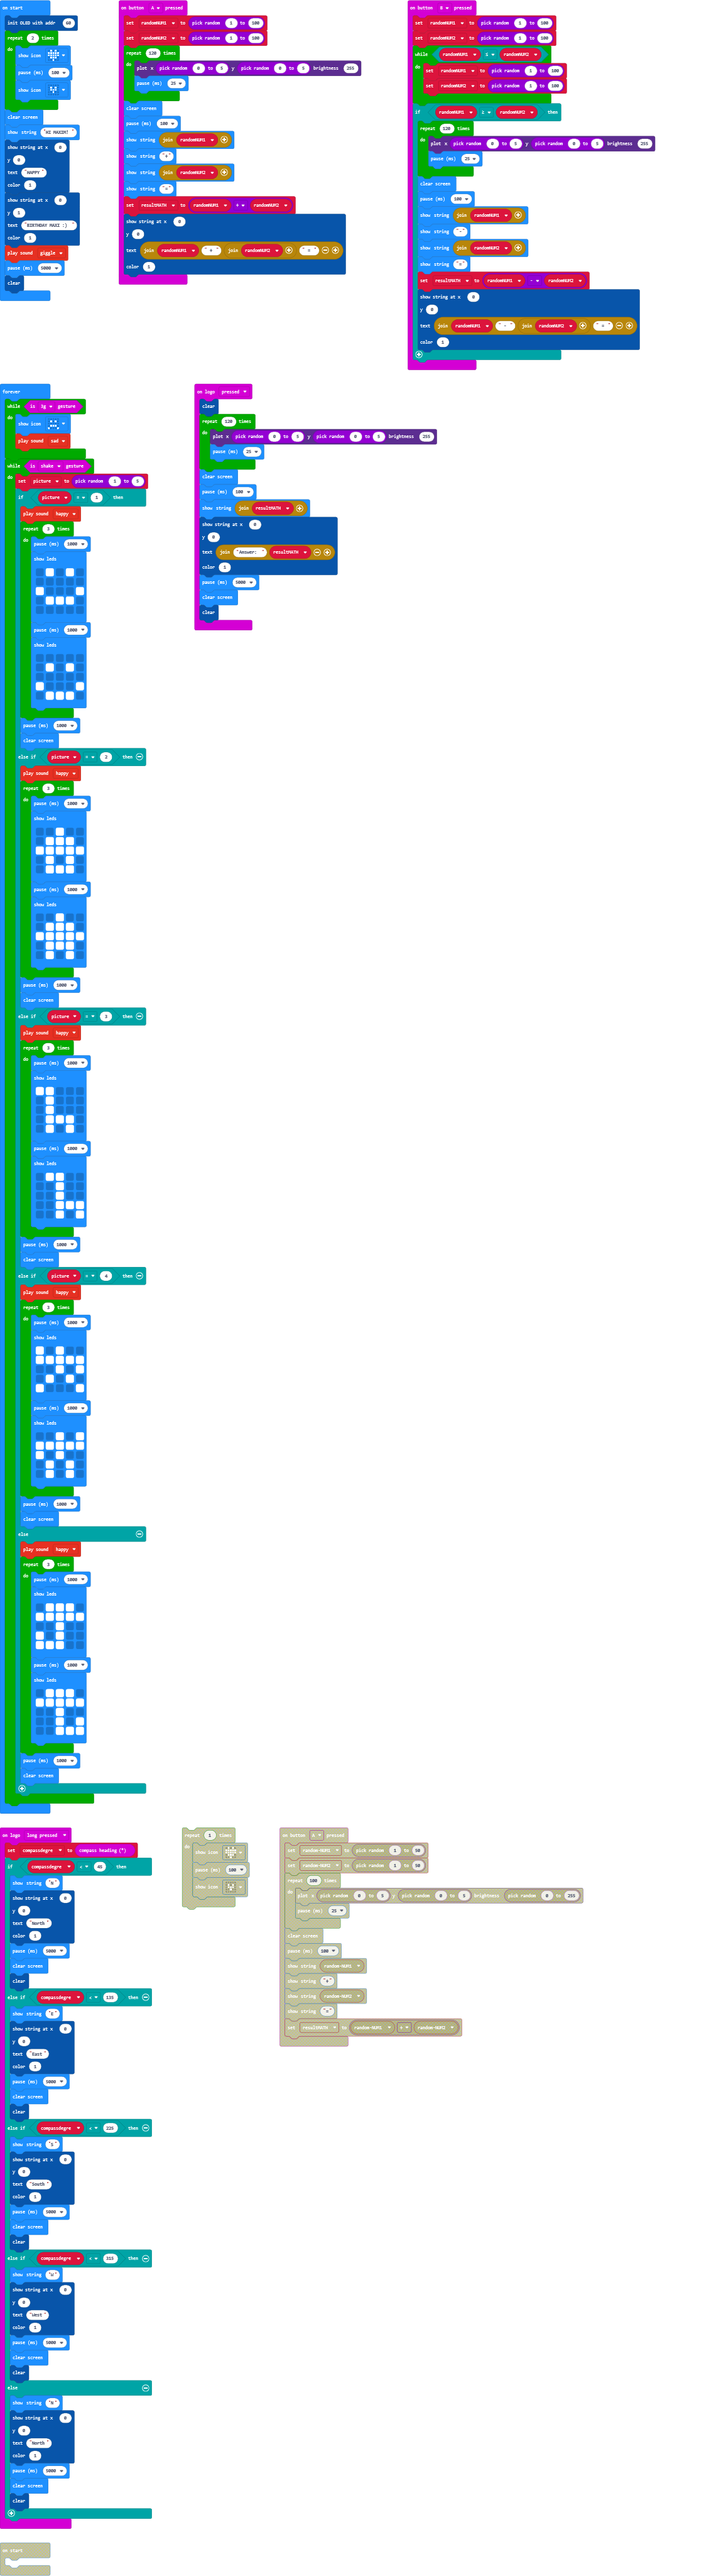
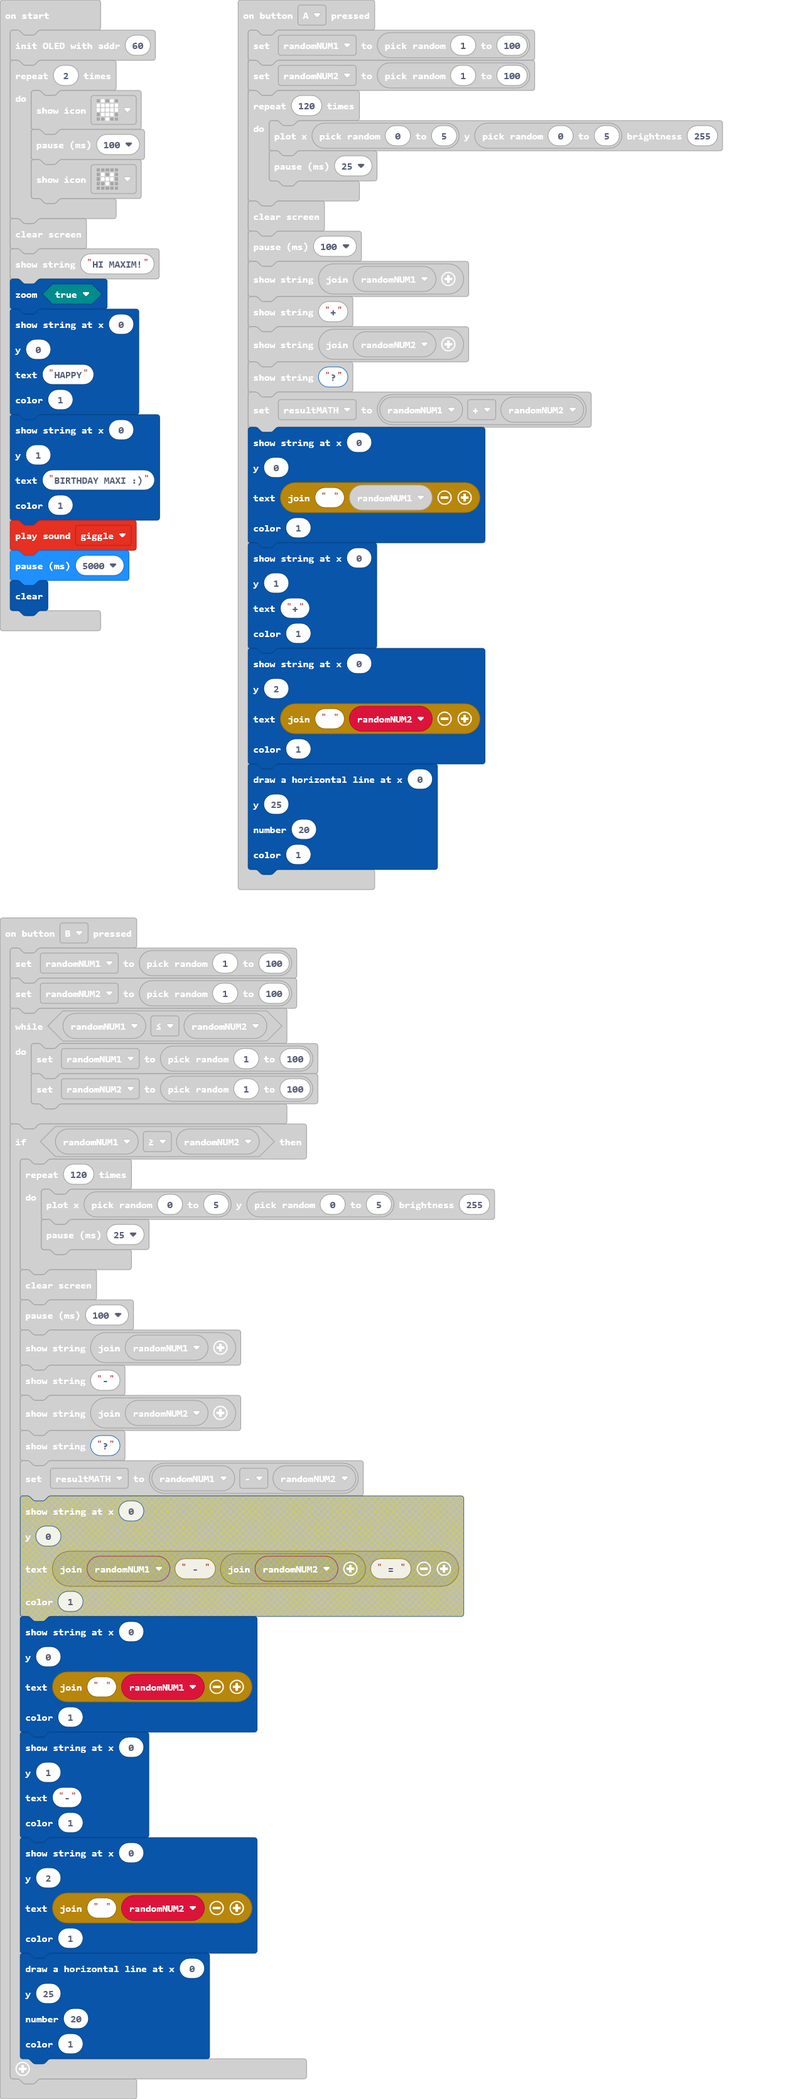
Update main.blocks, main.ts

diff --git a/main.ts b/main.ts
@@ -69,12 +69,30 @@ input.onButtonPressed(Button.A, function () {
     basic.showString("" + randomNUM1)
     basic.showString("+")
     basic.showString("" + randomNUM2)
-    basic.showString("=")
+    basic.showString("?")
     resultMATH = randomNUM1 + randomNUM2
     OLED12864_I2C.showString(
     0,
     0,
-    "" + randomNUM1 + " + " + ("" + randomNUM2) + " = ",
+    " " + randomNUM1,
+    1
+    )
+    OLED12864_I2C.showString(
+    0,
+    1,
+    "+",
+    1
+    )
+    OLED12864_I2C.showString(
+    0,
+    2,
+    " " + randomNUM2,
+    1
+    )
+    OLED12864_I2C.hline(
+    0,
+    25,
+    20,
     1
     )
 })
@@ -95,12 +113,30 @@ input.onButtonPressed(Button.B, function () {
         basic.showString("" + randomNUM1)
         basic.showString("-")
         basic.showString("" + randomNUM2)
-        basic.showString("=")
+        basic.showString("?")
         resultMATH = randomNUM1 - randomNUM2
         OLED12864_I2C.showString(
         0,
         0,
-        "" + randomNUM1 + " - " + ("" + randomNUM2) + " = ",
+        " " + randomNUM1,
+        1
+        )
+        OLED12864_I2C.showString(
+        0,
+        1,
+        "-",
+        1
+        )
+        OLED12864_I2C.showString(
+        0,
+        2,
+        " " + randomNUM2,
+        1
+        )
+        OLED12864_I2C.hline(
+        0,
+        25,
+        20,
         1
         )
     }
@@ -137,6 +173,7 @@ for (let index = 0; index < 2; index++) {
 }
 basic.clearScreen()
 basic.showString("HI MAXIM!")
+OLED12864_I2C.zoom(true)
 OLED12864_I2C.showString(
 0,
 0,
